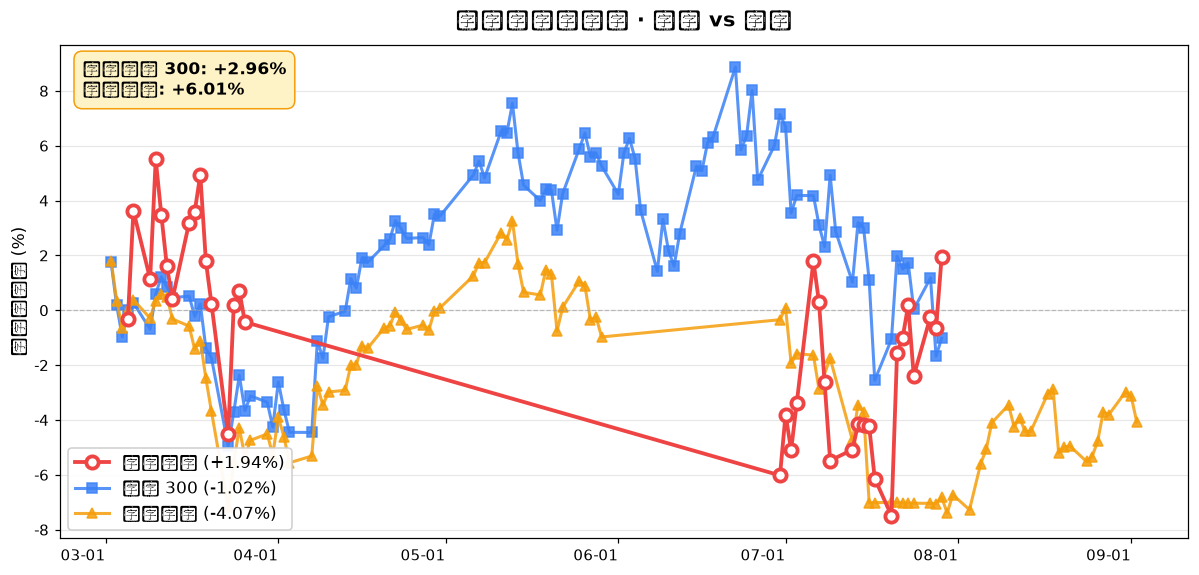
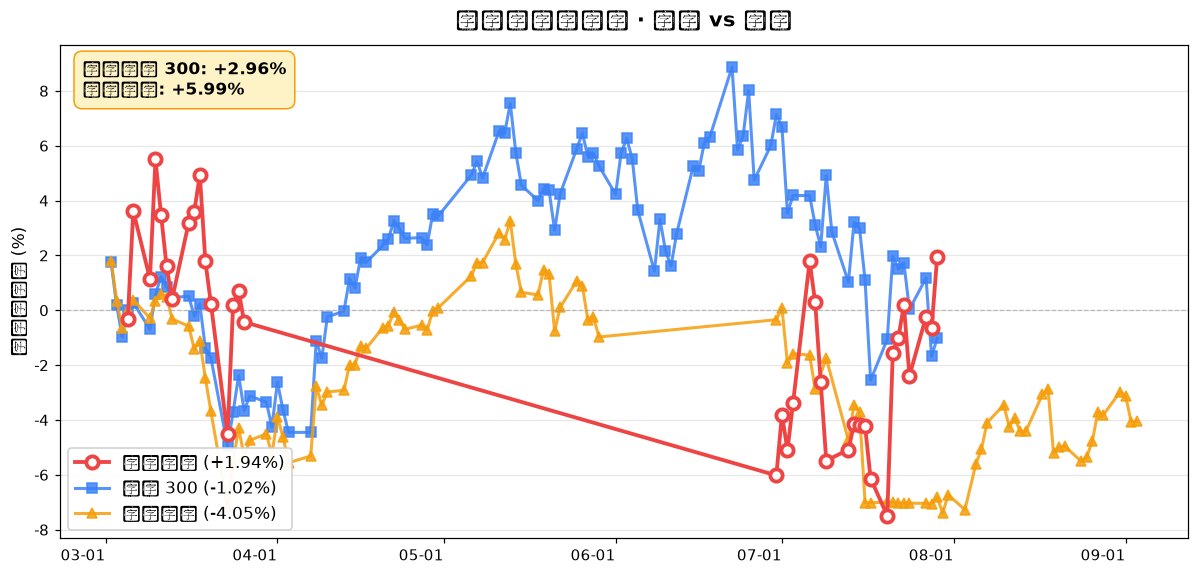
deploy dashboard 2026-09-03

diff --git a/dashboard/index.html b/dashboard/index.html
@@ -3,7 +3,7 @@
 <head>
 <meta charset="UTF-8">
 <meta name="viewport" content="width=device-width, initial-scale=1.0, user-scalable=no">
-<title>持仓 Dashboard · 2026-09-02</title>
+<title>持仓 Dashboard · 2026-09-03</title>
 <meta http-equiv="Cache-Control" content="no-cache">
 <style>
   * { margin: 0; padding: 0; box-sizing: border-box; }
@@ -111,7 +111,7 @@
 
 <div class="header">
   <h1 data-i18n="title">📊 持仓 Dashboard</h1>
-  <div class="date">2026-09-02 · 更新于 08:20</div>
+  <div class="date">2026-09-03 · 更新于 08:39</div>
 </div>
 
 <div class="hero-pnl" style="padding:16px">
@@ -123,8 +123,8 @@
       <div style="font-size:11px;color:#9ca3af"><span data-i18n="sublabel1">(持仓浮盈/亏)</span></div>
     </div>
     <div style="text-align:right">
-      <div style="font-size:18px;font-weight:700;color:#fff">-1947.75 元</div>
-      <div style="font-size:12px;color:#ffffffee">-8.54%</div>
+      <div style="font-size:18px;font-weight:700;color:#fff">-1971.35 元</div>
+      <div style="font-size:12px;color:#ffffffee">-9.17%</div>
     </div>
   </div>
 
@@ -145,19 +145,19 @@
       <div style="font-size:11px;color:#9ca3af">总% vs 初始总投入</div>
     </div>
     <div style="text-align:right">
-      <div style="font-size:22px;font-weight:800;color:#fff">-1353.55 元</div>
-      <div style="font-size:13px;color:#ffffffee">-3.28%</div>
+      <div style="font-size:22px;font-weight:800;color:#fff">-1377.15 元</div>
+      <div style="font-size:13px;color:#ffffffee">-3.45%</div>
     </div>
   </div>
 </div>
 
 <div style="font-size:11px;color:#9ca3af;text-align:center;margin-bottom:12px">
-    初始总投入 <b>41274.05</b> 元
+    初始总投入 <b>39954.65</b> 元
 </div>
 
 <div class="excess">
         <b>🔴 跑赢 沪深 300</b>: +2.96%<br>
-        <b>🔴 跑赢 上证指数</b>: +6.01%
+        <b>🔴 跑赢 上证指数</b>: +5.99%
     </div>
 
 <div class="section">
@@ -166,26 +166,26 @@
           <div class="name">春秋航空 <span style="color:#9ca3af;font-weight:normal">(601021)</span></div>
           <div class="row"><span class="k">持仓</span><span>100 股</span></div>
           <div class="row"><span class="k">成本</span><span>44.190</span></div>
-          <div class="row"><span class="k">现价</span><span>43.070</span></div>
-          <div class="row"><span class="k">盈亏</span><span class="green">-112.00 (-2.53%)</span></div>
+          <div class="row"><span class="k">现价</span><span>43.450</span></div>
+          <div class="row"><span class="k">盈亏</span><span class="green">-74.00 (-1.67%)</span></div>
         </div>
 <div class="holding-card loss">
           <div class="name">杉杉股份 <span style="color:#9ca3af;font-weight:normal">(600884)</span></div>
           <div class="row"><span class="k">持仓</span><span>1300 股</span></div>
           <div class="row"><span class="k">成本</span><span>13.130</span></div>
-          <div class="row"><span class="k">现价</span><span>11.680</span></div>
-          <div class="row"><span class="k">盈亏</span><span class="green">-1884.35 (-11.04%)</span></div>
+          <div class="row"><span class="k">现价</span><span>11.670</span></div>
+          <div class="row"><span class="k">盈亏</span><span class="green">-1897.35 (-11.12%)</span></div>
         </div>
 </div>
 
 <div class="section"><h2>🚪 已清仓 (3 只)</h2><div style="font-size:11px;color:#9ca3af;margin-bottom:8px">
         清仓释放本金 <b>19086.50</b> 元 · 累计实现 <b style="color:#ef4444">+594.20</b> 元
     </div><div class="holding-card loss" style="border-left-color:#6b7280">
-          <div class="name">金地集团 <span style="color:#9ca3af;font-weight:normal">(600383) 已清仓</span></div>
-          <div class="row"><span class="k">清仓日</span><span>2026-09-03</span></div>
-          <div class="row"><span class="k">成本</span><span>1319.40</span></div>
-          <div class="row"><span class="k">收回</span><span>1410.00</span></div>
-          <div class="row"><span class="k">实现盈亏</span><span class="red">+85.60 (+6.49%)</span></div>
+          <div class="name">港股创新药ETF <span style="color:#9ca3af;font-weight:normal">(513780) 已清仓</span></div>
+          <div class="row"><span class="k">清仓日</span><span>2026-07-08</span></div>
+          <div class="row"><span class="k">成本</span><span>14927.90</span></div>
+          <div class="row"><span class="k">收回</span><span>15404.50</span></div>
+          <div class="row"><span class="k">实现盈亏</span><span class="red">+461.60 (+3.09%)</span></div>
         </div>
 <div class="holding-card loss" style="border-left-color:#6b7280">
           <div class="name">厦门国贸 <span style="color:#9ca3af;font-weight:normal">(600755) 已清仓</span></div>
@@ -195,11 +195,11 @@
           <div class="row"><span class="k">实现盈亏</span><span class="red">+47.00 (+2.12%)</span></div>
         </div>
 <div class="holding-card loss" style="border-left-color:#6b7280">
-          <div class="name">港股创新药ETF <span style="color:#9ca3af;font-weight:normal">(513780) 已清仓</span></div>
-          <div class="row"><span class="k">清仓日</span><span>2026-07-08</span></div>
-          <div class="row"><span class="k">成本</span><span>14927.90</span></div>
-          <div class="row"><span class="k">收回</span><span>15404.50</span></div>
-          <div class="row"><span class="k">实现盈亏</span><span class="red">+461.60 (+3.09%)</span></div>
+          <div class="name">金地集团 <span style="color:#9ca3af;font-weight:normal">(600383) 已清仓</span></div>
+          <div class="row"><span class="k">清仓日</span><span>2026-09-03</span></div>
+          <div class="row"><span class="k">成本</span><span>1319.40</span></div>
+          <div class="row"><span class="k">收回</span><span>1410.00</span></div>
+          <div class="row"><span class="k">实现盈亏</span><span class="red">+85.60 (+6.49%)</span></div>
         </div></div>
 
 <div class="section">
@@ -210,18 +210,18 @@
           <td>春秋航空</td>
           <td class="num">100</td>
           <td class="num">44.190</td>
-          <td class="num">43.070</td>
-          <td class="num green">-112.00</td>
-          <td class="num green">-2.53%</td>
-          <td class="num green">+5.6%</td>
+          <td class="num">43.450</td>
+          <td class="num green">-74.00</td>
+          <td class="num green">-1.67%</td>
+          <td class="num green">+3.8%</td>
         </tr><tr>
           <td>杉杉股份</td>
           <td class="num">1300</td>
           <td class="num">13.130</td>
-          <td class="num">11.680</td>
-          <td class="num green">-1884.35</td>
-          <td class="num green">-11.04%</td>
-          <td class="num green">+94.4%</td>
+          <td class="num">11.670</td>
+          <td class="num green">-1897.35</td>
+          <td class="num green">-11.12%</td>
+          <td class="num green">+96.2%</td>
         </tr>
     </table>
 </div>
